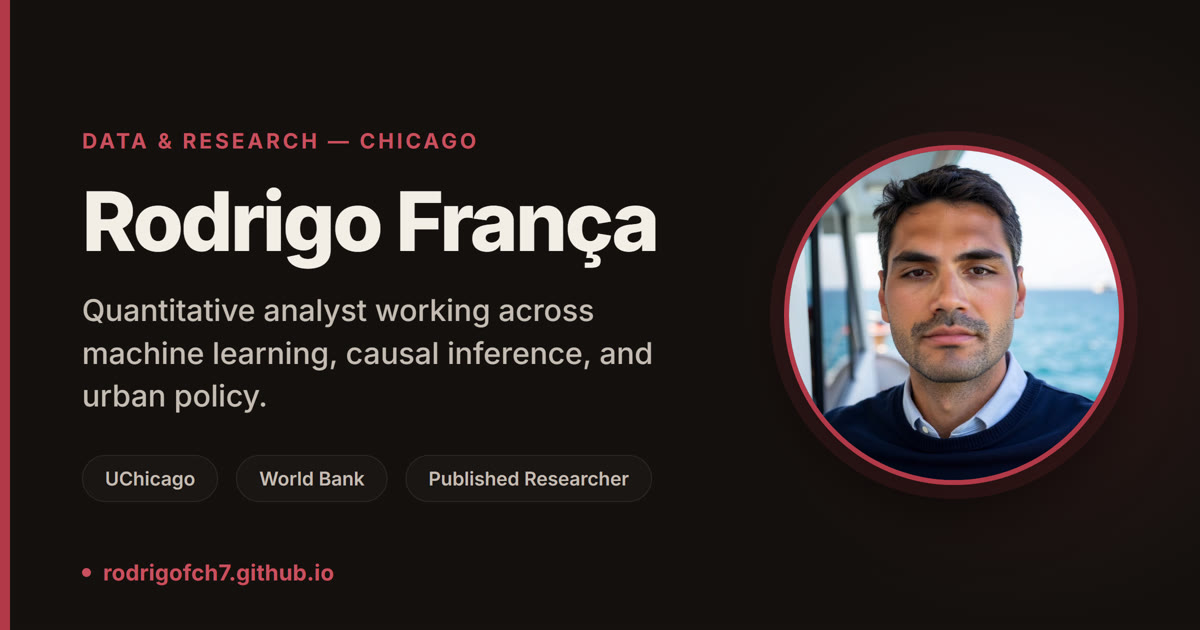
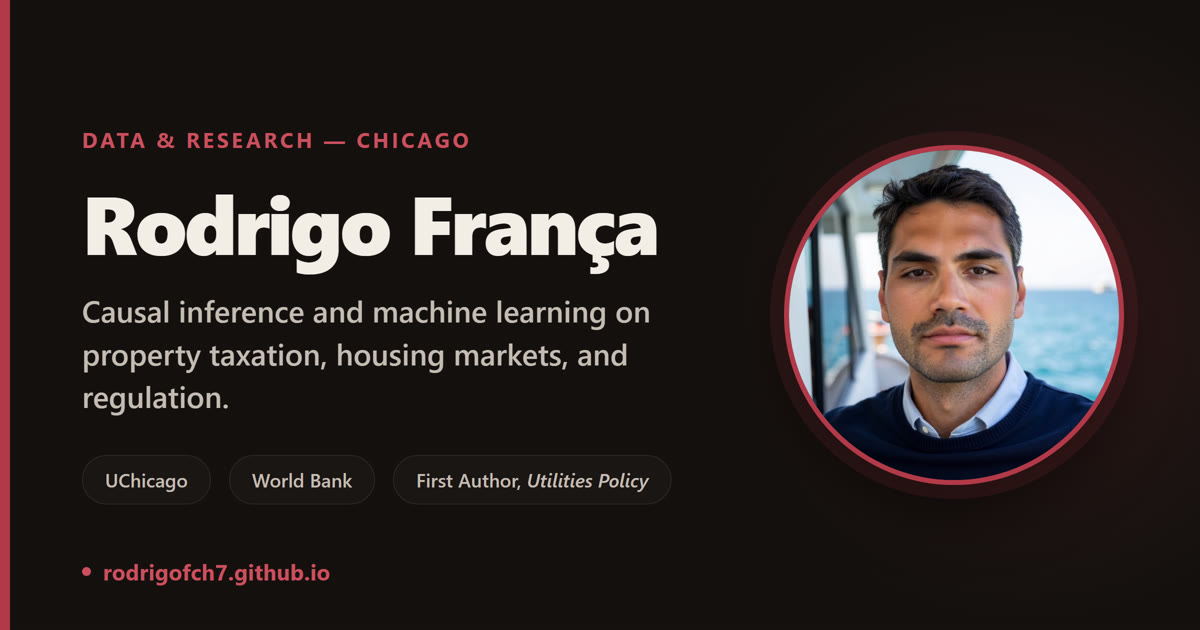
Align site, CV, and social card on a single positioning
Retargets the site copy to match the revised CV: applied-economist
framing centred on property taxation, housing, and regulation. Adds
authorship position and findings to both papers, brings the Insper and
Mansueto entries up to the CV's detail, and corrects the Mumbai
description so it no longer implies manipulation was found.

Regenerates the social card with the same positioning and a
first-author credential chip.

diff --git a/index.html b/index.html
@@ -4,15 +4,15 @@
 <meta charset="UTF-8">
 <meta name="viewport" content="width=device-width, initial-scale=1.0">
 <title>Rodrigo França Chaves — Data & Research</title>
-<meta name="description" content="Rodrigo França Chaves — Quantitative analyst applying machine learning and causal inference to housing, transit, and urban policy.">
+<meta name="description" content="Rodrigo França Chaves — applied economist using causal inference and machine learning on property taxation, housing markets, and utility regulation.">
 <meta property="og:title" content="Rodrigo França Chaves — Data &amp; Research">
-<meta property="og:description" content="Quantitative analyst applying machine learning and causal inference to housing, transit, and urban policy.">
+<meta property="og:description" content="Applied economist using causal inference and machine learning on property taxation, housing markets, and utility regulation.">
 <meta property="og:type" content="website">
 <meta property="og:url" content="https://rodrigofch7.github.io/">
 <meta property="og:image" content="https://rodrigofch7.github.io/assets/og-card.jpg">
 <meta property="og:image:width" content="1200">
 <meta property="og:image:height" content="630">
-<meta property="og:image:alt" content="Rodrigo França — quantitative analyst working across machine learning, causal inference, and urban policy.">
+<meta property="og:image:alt" content="Rodrigo França — applied economist working across causal inference, machine learning, property taxation, and regulation.">
 <meta property="og:site_name" content="Rodrigo França Chaves">
 <meta name="twitter:card" content="summary_large_image">
 <meta name="twitter:image" content="https://rodrigofch7.github.io/assets/og-card.jpg">
@@ -187,7 +187,7 @@
       <div>
         <p class="eyebrow">Data &amp; research — Chicago, IL</p>
         <h1>I turn messy data into decisions people can act on.</h1>
-        <p class="hero-sub">Quantitative analyst working across machine learning, causal inference, and large-scale data, turning complex evidence into clear, defensible answers on housing, transit, crime, taxes and urban policy.</p>
+            <p class="hero-sub">Applied economist working across causal inference, machine learning, and large-scale administrative data — turning complex evidence into clear, defensible answers on property taxation, housing markets, and regulation.</p>
         <div class="btn-row">
           <a href="#projects" class="btn btn-primary">View my work</a>
           <a href="assets/Rodrigo_Franca_Chaves_CV.pdf" class="btn btn-secondary" target="_blank" rel="noopener">Download CV</a>
@@ -227,7 +227,7 @@
       <p>I'm a Master's candidate in Computational Analysis and Public Policy at the University of Chicago, where I work at the intersection of data science, economics, and public policy. I build models and pipelines that turn raw, messy data, like satellite imagery, century-old archives, and property tax records, into evidence people can actually use to make decisions.</p>
       <p>My work spans applied machine learning (gradient-boosted models on datasets of millions of records), causal inference (difference-in-differences, regression discontinuity, panel econometrics), and geospatial analysis (remote sensing, georeferencing, spatial modeling at scale). I've applied these methods to housing markets, transit infrastructure, water systems, and policing across Brazil, Senegal, India, and the United States. I care as much about explaining the result clearly as about getting it right.</p>
       <p>Working at the policy level means I read the rules alongside the data. I work fluently with zoning and land-use regulation, property tax assessment, and infrastructure policy, and I translate that regulatory detail into analysis that holds up to scrutiny from agencies, courts, and clients.</p>
-      <p>Most recently, I spent the summer with the World Bank's Development Impact Evaluation team in Washington, DC, where I used satellite imagery to study urbanization around a new transit line in Dakar and analyzed property tax data in Mumbai to detect assessment anomalies. I currently work at UChicago's Mansueto Institute, where I've digitized over a century of archival records and merged them with historical census data to map the spatial evolution of Chicago's industry.</p>
+      <p>Most recently, I spent the summer with the World Bank's DECDI team in Washington, DC, where I used satellite imagery to measure urbanization around Dakar's new bus rapid transit corridor, reconstructed four decades of Mumbai property tax policy, and tested its assessment records for statistical signatures of manipulation. I currently work at UChicago's Mansueto Institute, where I've built a digitization pipeline for century-old fire insurance registers and linked the extracted firms to three historical censuses, mapping the spatial evolution of Chicago's industry.</p>
       <p>I'm also a committed cyclist, which is part of why the way cities move people, and who they're built for, is the question I keep coming back to. Native Portuguese speaker, fluent in English, conversational in Spanish.</p>
     </div>
   </div>
@@ -261,7 +261,7 @@
       <div>
         <p class="tl-role">Research Assistant, Insper Cities Lab</p>
         <p class="tl-org"><a href="https://arqfuturo.com.br/sobre" target="_blank" rel="noopener">Arq.Futuro — São Paulo, Brazil</a></p>
-        <p class="tl-desc">Causal evaluation of urban policy using difference-in-differences, regression discontinuity, and spatial regression. Produced one peer-reviewed publication and one forthcoming working paper. Mentored undergraduates on research design and methodology.</p>
+        <p class="tl-desc">Two years of quasi-experimental policy evaluation across utilities, crime, property taxation, regulation, and real estate markets, working with municipal panels running to millions of records on home prices, tax assessments, and disease incidence. First-authored the resulting <em>Utilities Policy</em> article and co-authored an in-progress working paper on police body cameras. Mentored undergraduates on research design and methodology.</p>
       </div>
     </div>
 
@@ -270,7 +270,7 @@
       <div>
         <p class="tl-role">Teaching Assistant — GIS, Econometrics &amp; R</p>
         <p class="tl-org"><a href="https://www.insper.edu.br/en/home" target="_blank" rel="noopener">Insper, São Paulo</a></p>
-        <p class="tl-desc">Supported 50+ students in applied econometrics and spatial analysis; coordinated an intensive field course with municipal stakeholders.</p>
+        <p class="tl-desc">Taught GIS and R to 50+ students, applying spatial analysis to São Paulo’s real estate market, transit infrastructure, population density, and urban models of settlement. Advised undergraduate theses through Brazil’s required capstone; one placed second in its cohort. Coordinated an intensive field course with municipal stakeholders.</p>
       </div>
     </div>
   </div>
@@ -283,16 +283,16 @@
 
     <div class="pub-item">
       <p class="pub-title">Private Ownership of Water and Wastewater Systems: Assessing Health Impacts</p>
-      <p class="pub-venue">Utilities Policy — Peer-Reviewed Journal Article</p>
-      <p class="pub-desc">A causal evaluation of water privatization effects on waterborne disease in Brazil (1998–2021), using panel data econometrics and difference-in-differences identification.</p>
+      <p class="pub-venue">Utilities Policy — Peer-Reviewed Journal Article (first author)</p>
+      <p class="pub-desc">Evaluates whether Brazil’s 2020 opening of water and sanitation systems to private operators was sound policy, comparing hundreds of closely matched municipalities before and after transfer (1998–2021). Finds private operation reduced waterborne disease on average, with the largest effects on diarrheal disease among children.</p>
       <img class="pub-thumb" src="assets/pub_privateownership.jpg" alt="First page of the Private Ownership of Water and Wastewater Systems paper" loading="lazy">
       <a href="https://www.sciencedirect.com/science/article/abs/pii/S0957178725000189?dgcid=author" target="_blank" rel="noopener">Read the paper →</a>
     </div>
 
     <div class="pub-item">
       <p class="pub-title">Resistance to Doing Right: Rising Cost of Misconduct from Body-Worn Camera Adoption</p>
-      <p class="pub-venue">Working Paper — In Progress</p>
-      <p class="pub-desc">Examines unintended consequences of body-worn camera adoption on police misconduct and de-policing in São Paulo, using staggered difference-in-differences on administrative crime microdata.</p>
+      <p class="pub-venue">Working Paper — In Progress (co-author)</p>
+      <p class="pub-desc">Estimates how body-worn cameras changed police behavior in São Paulo, using confidential police administrative microdata and a staggered rollout for identification. Preliminary results show fewer police confrontations alongside more crime recorded in heavily equipped areas — consistent with both de-policing and improved reporting.</p>
       <img class="pub-thumb" src="assets/pub_bodycams.jpg" alt="First page of the Resistance to Doing Right working paper" loading="lazy">
       <a href="https://papers.ssrn.com/sol3/papers.cfm?abstract_id=5441274" target="_blank" rel="noopener">Read the draft on SSRN →</a>
     </div>

diff --git a/assets/og-card.source.html b/assets/og-card.source.html
@@ -71,11 +71,11 @@
     <div class="left">
       <div class="eyebrow">Data &amp; Research — Chicago</div>
       <h1>Rodrigo França</h1>
-      <div class="role">Quantitative analyst working across machine learning, causal inference, and urban policy.</div>
+      <div class="role">Causal inference and machine learning on property taxation, housing markets, and regulation.</div>
       <div class="creds">
         <span class="cred">UChicago</span>
         <span class="cred">World Bank</span>
-        <span class="cred">Published Researcher</span>
+        <span class="cred">First Author, <i>Utilities Policy</i></span>
       </div>
     </div>
     <div class="portrait-wrap">
